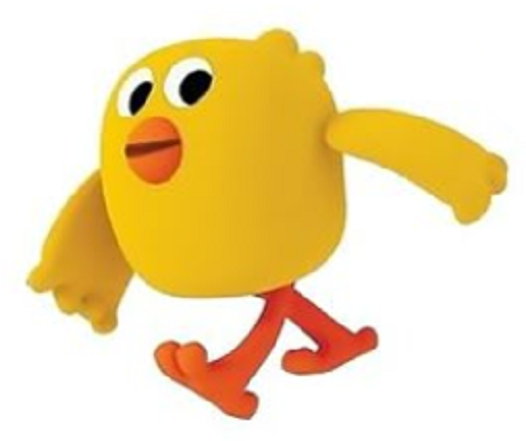
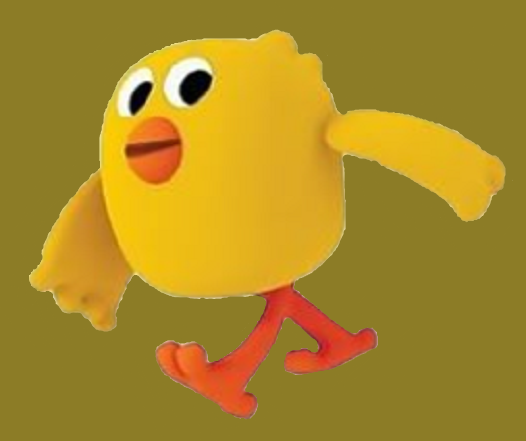
Закрасил фон картинок 3 и 4

diff --git a/index.css b/index.css
@@ -46,7 +46,7 @@ body{
 .invitation2{
     display: flex;
     justify-content: start;
-    background: rgb(5, 66, 3);
+    background: rgba(5, 66, 3, 0.9);
     color: white;
     border-radius: 20px;
 }
@@ -54,7 +54,7 @@ body{
 .invitation3{
     display: flex;
     justify-content: end;
-    background: rgb(140, 124, 38);
+    background: rgba(140, 124, 38, 0.9);
     color: white;
     border-radius: 20px;
 }
